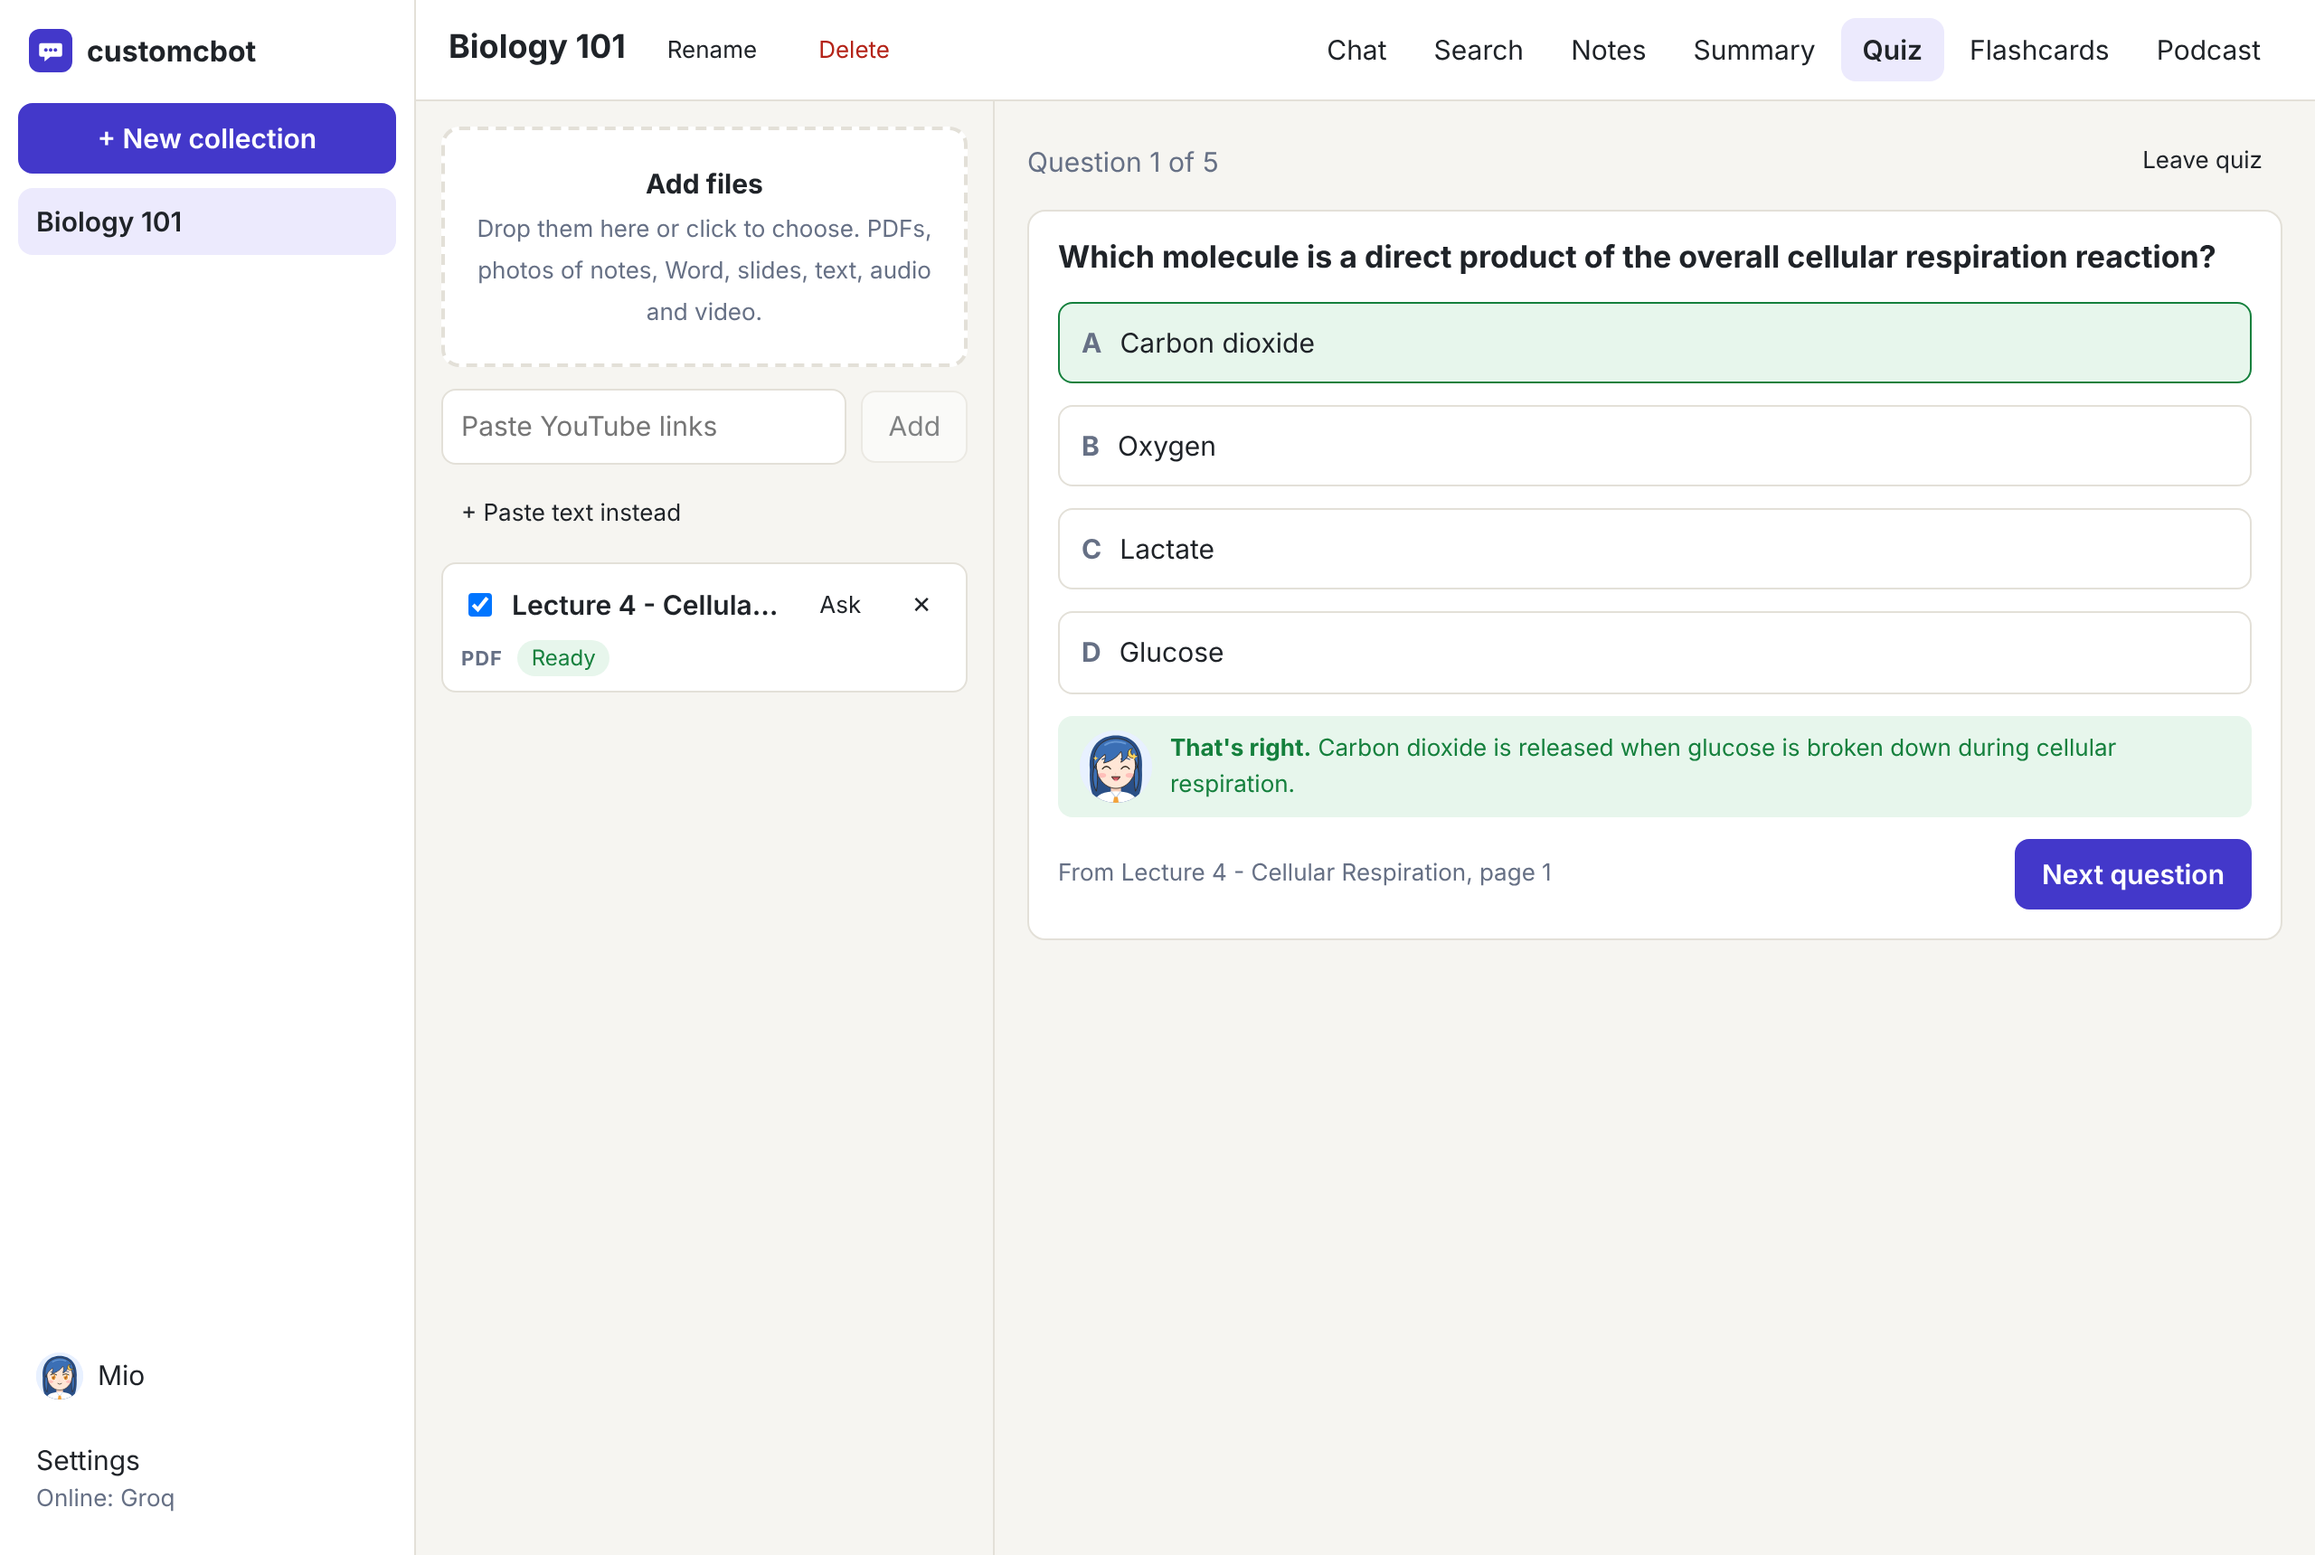
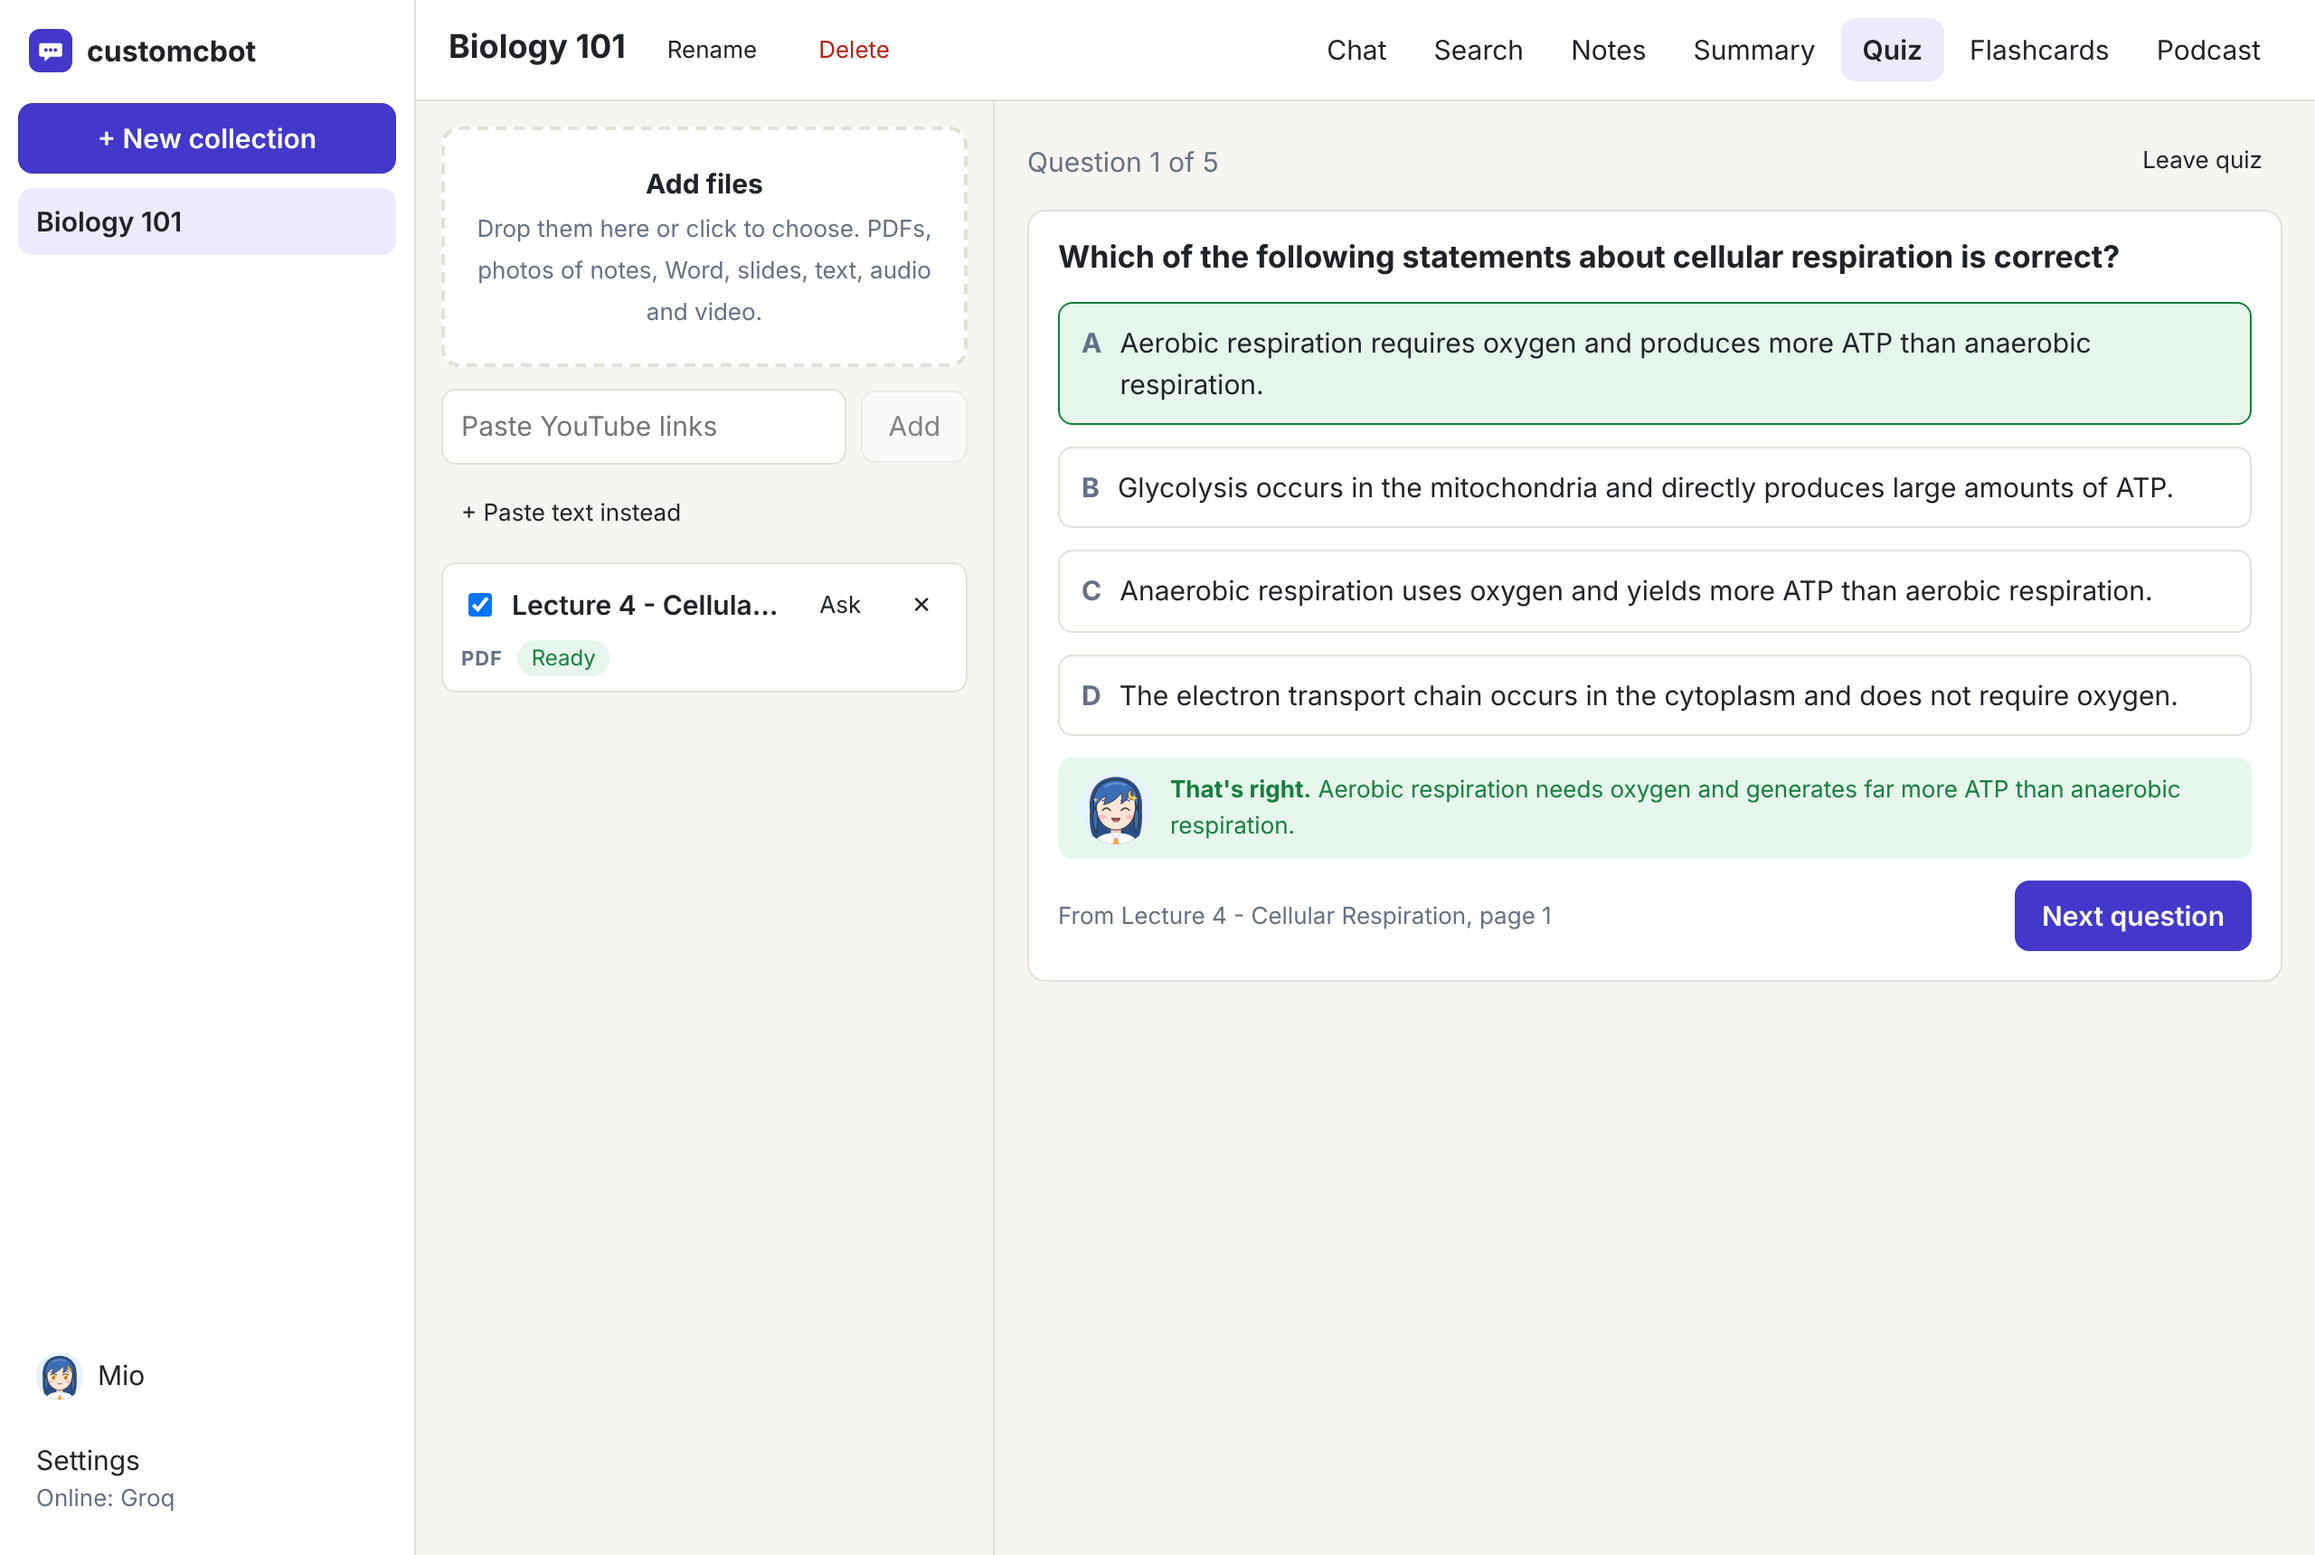
Answer an introduction as a greeting, and remember what it says
"Hi, I'm Yuki and my biology exam is on 12 June" names the subject, so it
was searched and could be answered with "I could not find that". A
greeting that tells something and asks nothing is now answered as one,
and is still read for facts to remember. Screenshots retaken.

Claude-Session: https://claude.ai/code/session_01VvAVspnGAJoobRY5boK8Ap

Changed region(s): [[0.4688, 0.2157, 1.0, 0.6163], [0.5, 0.1541, 0.9688, 0.1849]]

diff --git a/tests/test_companion.py b/tests/test_companion.py
@@ -42,6 +42,12 @@ def test_a_greeting_gets_a_greeting_not_a_search(client, collection):
     upload(client, collection, "cells.txt", (CELLS * 5).encode())
     ask(client, collection, "thank you")
     assert "small talk" in system_prompts(llm)[-1]
+    # A greeting that tells something and asks nothing, even if it names the subject.
+    _, _, cited, _ = ask(client, collection, "hi! I'm Yuki and my exam on mitochondria is on 12 June")
+    assert cited == [] and "small talk" in system_prompts(llm)[-1]
+    # A greeting followed by a request is a question.
+    _, _, cited, _ = ask(client, collection, "hello, explain what mitochondria do")
+    assert cited and "small talk" not in system_prompts(llm)[-1]
     # Short, but its words are in the material: that is a search.
     _, _, cited, _ = ask(client, collection, "cristae surface area")
     assert cited and "small talk" not in system_prompts(llm)[-1]
@@ -55,15 +61,15 @@ def test_without_the_companion_a_greeting_is_treated_as_before(client, collectio
 
 
 def test_memories_can_be_added_edited_and_cleared(client):
-    first = client.post("/api/memories", json={"content": "  My name is   Arjun. "}).json()
-    assert first["content"] == "My name is Arjun."
-    assert client.post("/api/memories", json={"content": "my name is arjun"}).status_code == 400  # known already
+    first = client.post("/api/memories", json={"content": "  My name is   Yuki. "}).json()
+    assert first["content"] == "My name is Yuki."
+    assert client.post("/api/memories", json={"content": "my name is yuki"}).status_code == 400  # known already
     assert client.post("/api/memories", json={"content": " "}).status_code == 400
     assert client.post("/api/memories", json={"content": "x" * 300}).status_code == 400
     client.post("/api/memories", json={"content": "Exam on 12 June."})
-    edited = client.put(f"/api/memories/{first['id']}", json={"content": "My name is Arjun Rao."}).json()
-    assert edited["content"] == "My name is Arjun Rao."
-    assert [m["content"] for m in client.get("/api/memories").json()] == ["My name is Arjun Rao.", "Exam on 12 June."]
+    edited = client.put(f"/api/memories/{first['id']}", json={"content": "My name is Yuki Sato."}).json()
+    assert edited["content"] == "My name is Yuki Sato."
+    assert [m["content"] for m in client.get("/api/memories").json()] == ["My name is Yuki Sato.", "Exam on 12 June."]
     client.delete(f"/api/memories/{first['id']}")
     assert len(client.get("/api/memories").json()) == 1
     client.delete("/api/memories")
@@ -72,13 +78,13 @@ def test_memories_can_be_added_edited_and_cleared(client):
 
 def test_what_is_remembered_reaches_the_prompt_only_while_memory_is_on(client, collection):
     upload(client, collection, "cells.txt", (CELLS * 5).encode())
-    client.post("/api/memories", json={"content": "The student's name is Arjun."})
+    client.post("/api/memories", json={"content": "The student's name is Yuki."})
     llm = client.app.state.services.llm
     ask(client, collection, "What do mitochondria produce?")
-    assert "The student's name is Arjun." in system_prompts(llm)[-1]
+    assert "The student's name is Yuki." in system_prompts(llm)[-1]
     client.put("/api/companion", json={"memory": False})
     ask(client, collection, "What do mitochondria produce?")
-    assert "Arjun" not in system_prompts(llm)[-1]
+    assert "Yuki" not in system_prompts(llm)[-1]
 
 
 def test_only_the_newest_memories_are_kept(client):

diff --git a/src/customcbot/graphs/companion.py b/src/customcbot/graphs/companion.py
@@ -70,7 +70,11 @@ def is_small_talk(question: str, collection_id: int, has_material: bool, service
     Only a few words with no question mark can be, and only if they match nothing
     in the material: "photosynthesis" is short too, and must still be searched.
     """
-    if not active() or "?" in question or len(question.split()) > SMALL_TALK_WORDS:
+    if not active() or "?" in question:
+        return False
+    if _introduction(question):
+        return True
+    if len(question.split()) > SMALL_TALK_WORDS:
         return False
     if not has_material:
         return True
@@ -95,6 +99,33 @@ _SELF = re.compile(
     r"|मैं|मेरा|मेरी|मेरे|मुझे|我",
     re.I,
 )
+
+
+INTRODUCTION_WORDS = 20
+_GREETING = re.compile(
+    r"^\W*(hi|hey|hello|hiya|yo|good (morning|afternoon|evening)|thanks|thank you|namaste|hola|buenos|buenas"
+    r"|bonjour|salut|coucou|merci|ol[aá]|oi|obrigad[oa]|gracias|नमस्ते|你好|您好|谢谢)(?!\w)",
+    re.I,
+)
+_REQUEST = re.compile(
+    r"(?<!\w)(explain|tell|what|how|why|when|where|which|who|summari[sz]e|give|show|help|quiz|test|define"
+    r"|describe|list|compare|can you|could you|please|explica|qu[eé]|c[oó]mo|explique|pourquoi|comment"
+    r"|kya|kaise|batao|samjhao)(?!\w)",
+    re.I,
+)
+
+
+def _introduction(message: str) -> bool:
+    """ "Hi, I'm Yuki and my exam is in June": a greeting that tells something and asks nothing.
+
+    It may well name the subject, so it would otherwise be searched and answered with
+    "I could not find that". When in doubt this says no, and the message is searched as usual.
+    """
+    return (
+        len(message.split()) <= INTRODUCTION_WORDS
+        and bool(_GREETING.search(message))
+        and not _REQUEST.search(message)
+    )
 
 
 class Facts(BaseModel):

diff --git a/src/customcbot/graphs/chat.py b/src/customcbot/graphs/chat.py
@@ -169,6 +169,7 @@ def answer(
             messages += [{"role": m["role"], "content": m["content"][:HISTORY_CHARS]} for m in history[-PROMPT_HISTORY:]]
             messages.append({"role": "user", "content": question})
             yield from _reply(chat_id, messages, [], [], services, max_tokens=150)
+            _remember(question, services)  # an introduction is where the name and the exam date are
             return
 
     if not has_material and not general:
@@ -224,6 +225,11 @@ def answer(
     messages.append({"role": "user", "content": user})
 
     yield from _reply(chat_id, messages, passages, citations, services)
+    _remember(question, services)
+
+
+def _remember(question: str, services: Services) -> None:
+    """Have the message read, in the background, for lasting facts about the user."""
     if companion.remembers() and services.llm is None:  # not with the stand-in model
         services.worker.submit_job("remember", None, {"message": question})
 

diff --git a/CLAUDE.md b/CLAUDE.md
@@ -45,7 +45,7 @@ The layers follow [open-notebook](https://github.com/lfnovo/open-notebook), on a
 - Ask numbers passages once across all its searches, so `[3]` means the same passage in the notes and in the final answer. Keep that when changing `graphs/ask.py`.
 - A chat with `source_id` set is about that one source: it looks nowhere else, and a source short enough is read whole.
 - Interface text is written in English in the components and looked up in `web/locales/<lang>.json`. Text in a template and whole phrases dropped into one are translated without any marking; other text chosen in code goes through `t('...')`. Phrases chosen in code must start with a capital letter, which is how they are told apart from class names. After adding text, run `tools/i18n_extract.py --missing`; `tests/test_i18n.py` fails when a file falls under 95%.
-- The companion changes only the tone of an answer: `companion.persona()` is added to the system prompt, and searching, citing and citation checks stay the same. It returns nothing on the Lite tier, where a tone made answers worse. A short message with no question mark that matches nothing in the material is small talk and is answered without a search.
+- The companion changes only the tone of an answer: `companion.persona()` is added to the system prompt, and searching, citing and citation checks stay the same. It returns nothing on the Lite tier, where a tone made answers worse. A short message with no question mark that matches nothing in the material is small talk and is answered without a search. So is a greeting that introduces the user and asks nothing ("Hi, I'm Yuki and my exam is in June"), even when it names the subject.
 - Memories are facts about the user, never about the subject. `companion.learn` only reads messages that mention their writer and only keeps facts that start with "The student" and reuse the user's words. Keep those guards: without them a small model stores the lesson as a memory.
 - With a password set, every `/api/` route except `/api/auth/` needs the sign-in cookie. Never send `password_hash` to the browser.
 - Background LLM calls pass `background=True` so chat stays responsive.
